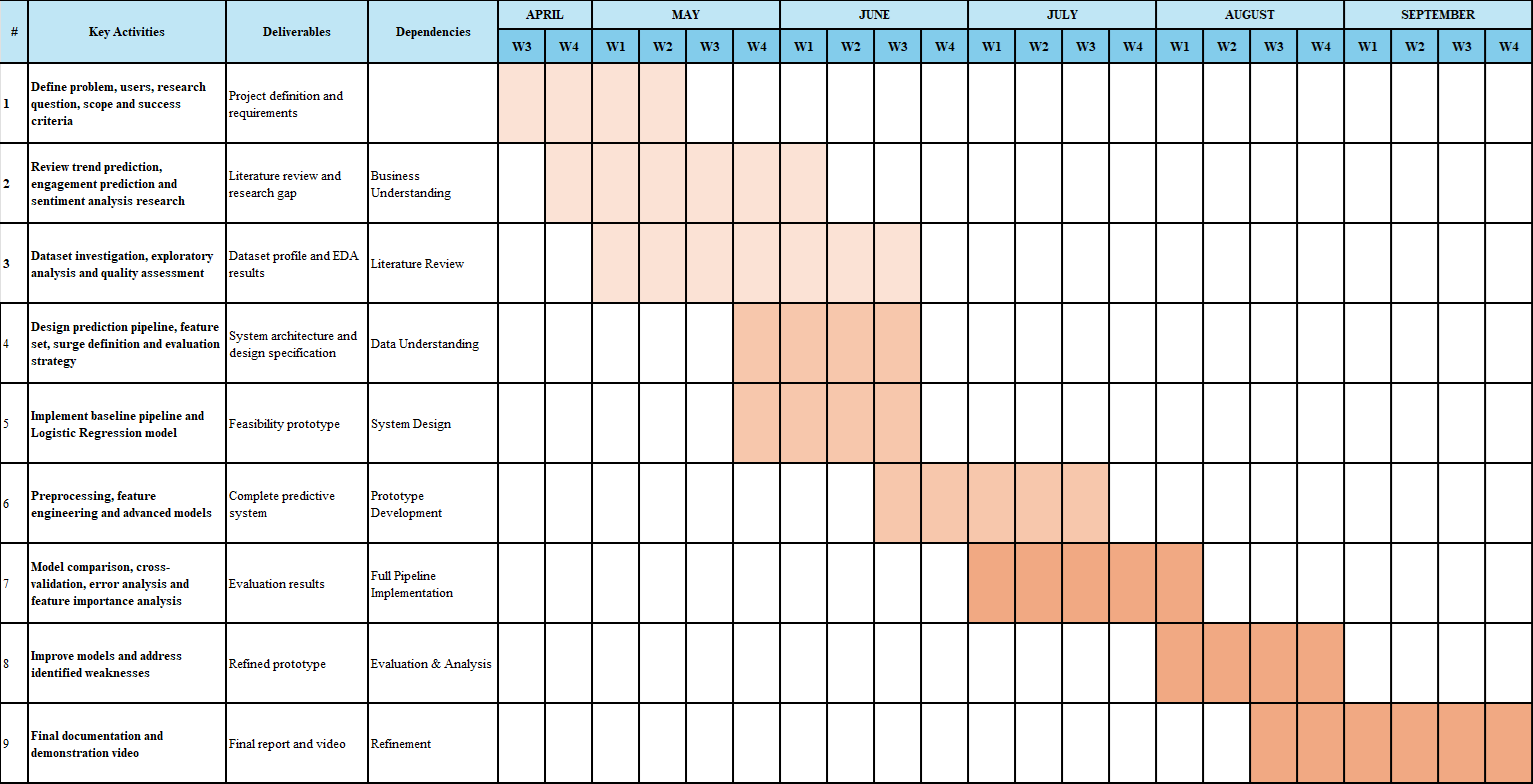
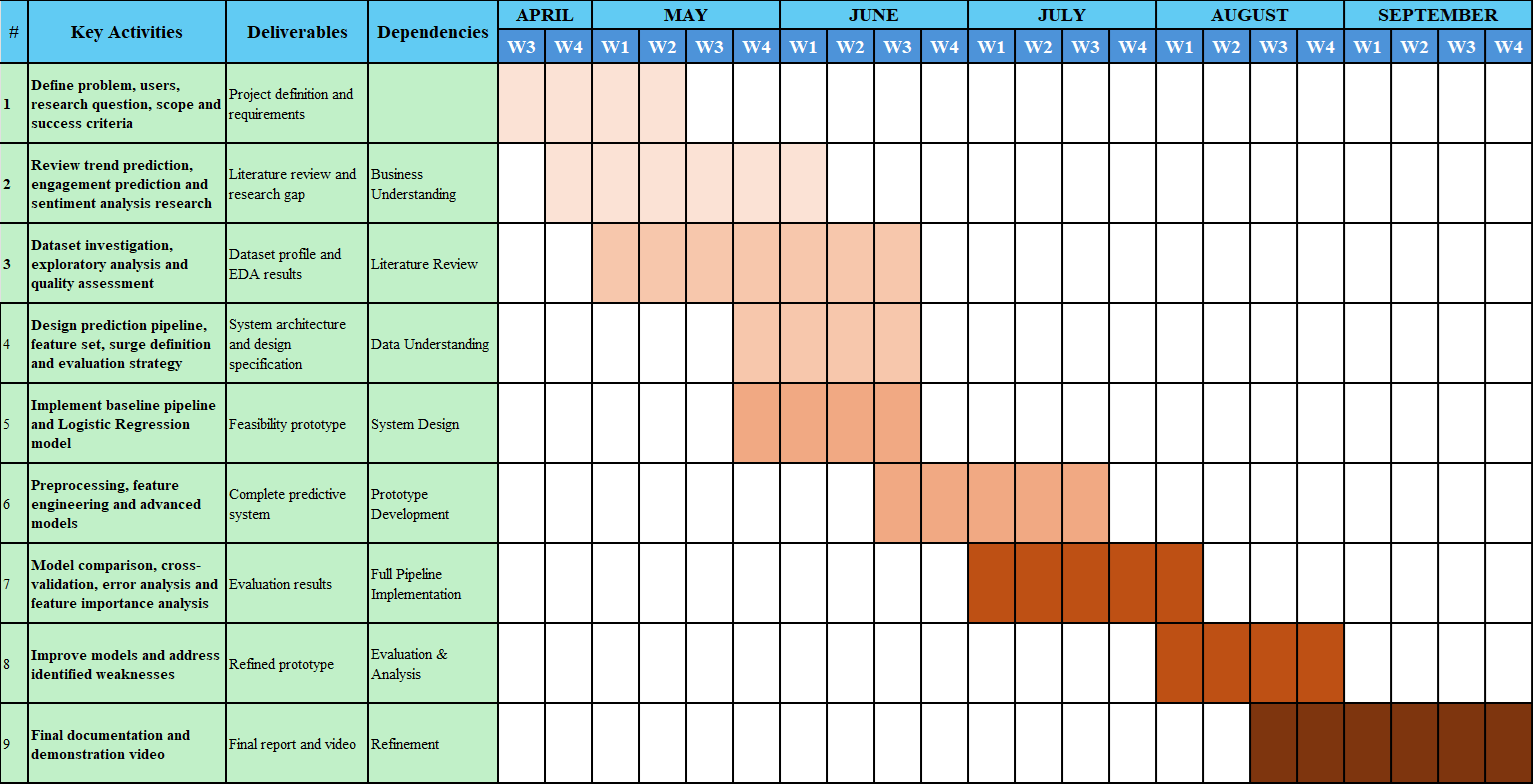
review: update final report evaluation section

diff --git a/reports/05-final/final-report-v0.0.2.md b/reports/05-final/final-report-v0.0.2.md
@@ -440,7 +440,7 @@ The prediction objective is a supervised binary classification task ($y \in \{0,
 
 : Three classifier families spanning the complexity spectrum. {#tbl:model-families}
 
-**Primary metric (AUC-ROC):** At the sub-1% to ~5% surge rates the target actually produces ([@tbl:dataset-characteristics], [@tbl:weight-sensitivity]), accuracy is uninformative, a naive "no surge" predictor scores 95–99%. AUC-ROC measures ranking quality across all thresholds. Precision, Recall, $F_1$, and PR-AUC are reported as secondary metrics at default and validation-optimised thresholds.
+**Primary metric (AUC-ROC):** At the sub-1% to ~5% surge rates the target actually produces ([@tbl:dataset-characteristics], [@tbl:weight-sensitivity]), accuracy is uninformative, a naive "no surge" predictor scores 95–99%. AUC-ROC measures ranking quality across all thresholds. Precision, Recall, and $F_1$ are reported as secondary metrics at default and validation-optimised thresholds.
 
 **Handling class imbalance:** SMOTE is unsuitable for temporal data because synthetic instances lack meaningful timestamps and risk local data leakage. Instead, imbalance is addressed via cost-sensitive learning: `class_weight='balanced'` for LR and RF, and `scale_pos_weight` (negative-to-positive ratio) for XGBoost.
 
@@ -711,10 +711,12 @@ After the remaining stages (labelling also drops records whose forward window is
 | After ticker extraction (exploded) | 80,212 | 577,872 |
 | Usable records (post-exclusion) | 24,827 | 457,072 |
 | Train / Test split | 21,549 / 3,278 | 388,149 / 68,923 |
+| Train surges | 667 | 5,934 |
 | Test surges | 31 | 668 |
+| Train imbalance ratio | 31:1 | 64:1 |
 | Test imbalance ratio | 105:1 | 102:1 |
 
-: Dataset characteristics. {#tbl:dataset-characteristics}
+: Dataset characteristics. Surge counts and imbalance ratios are at the primary threshold ($\tau = 1.5$, $w_1 = w_2 = 0.5$). {#tbl:dataset-characteristics}
 
 ## Feature Engineering (Implementation) {#sec:feature-implementation}
 
@@ -946,7 +948,7 @@ The configuration with the highest mean validation AUC across the three splits (
 
 So that every reported number and plot derives from a single re-runnable path rather than ad-hoc analysis, evaluation is implemented as a reusable set of functions (`evaluation.py`), figure generators (`evaluation_figures.py`), and an append-only run tracker (`experiment_log.py`).
 
-**Metric computation.** For each trained model, held-out predictions are scored for AUC-ROC (the primary metric), plus precision, recall, $F_1$, and PR-AUC at both the default 0.5 threshold and the validation-tuned threshold (fixed during training, [@sec:temporal-validation]). Uncertainty is quantified by 1,000 bootstrap resamples of the test set, yielding 95% confidence intervals for every metric, and pairwise model differences are tested with McNemar's test under a Bonferroni-corrected $\alpha$.
+**Metric computation.** For each trained model, held-out predictions are scored for AUC-ROC (the primary metric), plus precision, recall, and $F_1$ at both the default 0.5 threshold and the validation-tuned threshold (fixed during training, [@sec:temporal-validation]). Uncertainty is quantified by 1,000 bootstrap resamples of the test set, yielding 95% confidence intervals for every metric, and pairwise model differences are tested with McNemar's test under a Bonferroni-corrected $\alpha$.
 
 **Experiment orchestration.** A run is fully specified by a `PipelineConfig` (dataset, weights $w_1/w_2$, threshold $\tau$, seed). The CLI entry points ([@tbl:cli-entry-points]) execute a run end-to-end; each writes its resolved configuration, metrics, and environment to a timestamped directory and appends one line to a JSONL log recording the config, the Git commit SHA, and the output path. Because a run is reproducible from its config and seed, model comparisons, threshold sweeps ($\tau$), and sentiment-weight sweeps ($w_2$) are executed by re-running with different configs rather than by editing code, and the cross-dataset transfer experiment simply loads a model trained on one community and scores it on the other's test set.
 
@@ -1073,7 +1075,7 @@ On `WSB`, XGBoost achieved AUC-ROC 0.892 [0.881–0.902] and Random Forest 0.880
 | | RF | 0.753 [0.673–0.824] | 0.068 | 0.194 | 0.101 | Target |
 | | XGB | 0.734 [0.641–0.821] | 0.000 | 0.000 | 0.000 | Target |
 
-: Test-set performance at default classification threshold (0.5). 95% bootstrap CIs from 1,000 resamples. {#tbl:perf-default}
+: Test-set performance at default classification threshold (0.5). 95% bootstrap CIs from 1,000 resamples. Tier reflects AUC-ROC only ([@tbl:success-tiers]), which is why XGBoost on `r/pennystocks` is still "Target" (AUC 0.734) despite 0.000 precision, recall, and F1 at this threshold. {#tbl:perf-default}
 
 AUC scores are strong but precision is near zero everywhere at the default 0.5 threshold. With sub-1% surge rates, probability outputs cluster far below 0.5, models rank surges correctly but the threshold is too conservative. This is a calibration problem, not a discrimination failure. On pennystocks, RF and XGB confidence intervals overlap substantially; McNemar's test ([@sec:statistical-validation]) nonetheless confirms significant prediction differences.
 
@@ -1162,6 +1164,8 @@ Models were evaluated on the other community's test set without retraining ([@tb
 
 ### Sentiment Contribution (Phase 1 vs Phase 2) {#sec:sentiment-contribution}
 
+Does adding sentiment to the surge target actually help, or would volume alone do just as well? To find out, the same XGBoost model was trained on two target definitions: **Phase 1**, volume growth only ($w_2 = 0$), and **Phase 2**, the composite of volume and sentiment ($w_1 = w_2 = 0.5$). [@tbl:phase-comparison] compares them.
+
 | Dataset | Phase 1 (volume only) | Phase 2 (composite) | $\Delta$ AUC |
 |---------|-----------------------|--------------------:|------:|
 | WSB | 0.710 | 0.892 | +0.182 |
@@ -1169,7 +1173,7 @@ Models were evaluated on the other community's test set without retraining ([@tb
 
 : Volume-only ($w_{2}=0$) vs composite ($w_{1}=w_{2}=0.5$), XGBoost AUC-ROC. {#tbl:phase-comparison}
 
-Adjusting the target weight also alters the base surge rate (0.53% to 1.44% on `WSB`), so the gain reflects both richer signal and slightly higher class balance. The full weight sweep:
+Sentiment clearly helps, adding +0.182 AUC on `WSB` and +0.049 on `r/pennystocks`. One caveat: changing the weight also shifts the base surge rate (0.53% to 1.44% on `WSB`), so part of the gain could simply come from a slightly more balanced target rather than from richer signal. To separate the two effects, the full weight sweep varies $w_2$ from 0 to 1:
 
 | $w_{2}$ | $w_{1}$ | AUC-ROC | Surge Rate | Tier |
 |----|-----|---------|------------|------|
@@ -1181,7 +1185,7 @@ Adjusting the target weight also alters the base surge rate (0.53% to 1.44% on `
 
 : Weight sensitivity, XGBoost AUC-ROC on WSB ($\tau = 1.5$). {#tbl:weight-sensitivity}
 
-The +0.184 AUC jump between $w_2 = 0.25$ (0.708) and $w_2 = 0.50$ (0.892) is disproportionate to the 0.43pp surge-rate increase over the same step, providing strong evidence of genuine predictive structure from sentiment. The relationship is non-monotonic: pure sentiment ($w_2 = 1.0$, AUC 0.872) outperforms $w_2 = 0.75$ (0.861), indicating volume contributions are most effective at equal balance.
+The sweep confirms the gain is real, not just a balance artefact. Its $w_2 = 0$ row (0.710) is the Phase 1 volume-only result from [@tbl:phase-comparison]; the sharpest move, however, is higher up the sweep. Between $w_2 = 0.25$ (AUC 0.708) and $w_2 = 0.50$ (0.892), AUC leaps +0.184 while the surge rate rises only 0.43pp, far too small a balance change to explain the jump. Sentiment is carrying genuine predictive signal. The curve is also non-monotonic: pure sentiment ($w_2 = 1.0$, 0.872) beats the volume-heavy $w_2 = 0.75$ (0.861), so an equal volume-sentiment balance ($w_2 = 0.50$) works best.
 
 ## Critical Analysis
 
@@ -1189,17 +1193,17 @@ The +0.184 AUC jump between $w_2 = 0.25$ (0.708) and $w_2 = 0.50$ (0.892) is dis
 
 XGBoost leads on `WSB` (0.892 vs. RF's 0.880), whereas Random Forest leads on `r/pennystocks` (0.753 vs. XGBoost's 0.734). Three factors explain this inversion:
 
-First, XGBoost's sequential boosting requires sufficient positive examples to distinguish signal from noise. `WSB` provides 5,934 training surges versus 667 in pennystocks; with fewer positives, later boosting iterations fit noise, a risk bagging mitigates by averaging independent trees.
+First, XGBoost's sequential boosting requires sufficient positive examples to distinguish signal from noise. `WSB` provides 5,934 training surges versus 667 in pennystocks ([@tbl:dataset-characteristics]); with fewer positives, later boosting iterations fit noise, a risk bagging mitigates by averaging independent trees.
 
 Second, Random Forest distributes splits more evenly across features. On pennystocks, Gini importances span six features above 0.06 with none exceeding 0.21, offering robustness when individual signals are unreliable.
 
-Third, XGBoost's probability calibration degrades under extreme imbalance. At 31:1 training ratio in pennystocks (105:1 in test), its logistic output saturates near zero, yielding zero positive predictions at threshold 0.5. RF's vote-fraction probabilities produce less extreme skew.
+Third, XGBoost's probability calibration degrades under extreme imbalance. At 31:1 training ratio in pennystocks (105:1 in test, [@tbl:dataset-characteristics]), its logistic output saturates near zero, yielding zero positive predictions at threshold 0.5. RF's vote-fraction probabilities produce less extreme skew.
 
 On this evidence, below roughly 5,000 positive training instances Random Forest was the more robust choice than gradient boosting.
 
 ### The Sentiment Signal {#sec:sentiment-signal}
 
-As a standalone feature, `sentiment_score` achieves modest AUC (0.559–0.587), yet dominates permutation importance (+0.146 to +0.203). This discrepancy arises because permutation importance measures contribution *in context of other features*. Sentiment becomes highly discriminative when conditioned on activity rates: accelerating volume combined with elevated emotional tone is a stronger surge precursor than either signal alone.
+As a standalone feature, `sentiment_score` achieves only modest AUC (0.559 on `r/pennystocks`, 0.587 on `WSB`; from the single-feature baselines, [@sec:statistical-validation] and [@tbl:cross-community-features]), yet dominates permutation importance (+0.146 to +0.203). This discrepancy arises because permutation importance measures contribution *in context of other features*. Sentiment becomes highly discriminative when conditioned on activity rates: accelerating volume combined with elevated emotional tone is a stronger surge precursor than either signal alone.
 
 This also explains Phase 1 vs Phase 2 divergence. With sentiment excluded from the target ($w_2 = 0$), volume-only surges exhibit higher variance and prove harder to forecast. Incorporating sentiment ($w_2 \ge 0.50$) yields surges with more structured precursors. While part of the +0.182 AUC gain stems from altered task difficulty, its disproportionate magnitude evidences genuine predictive structure.
 
@@ -1219,7 +1223,14 @@ These patterns are systematic rather than random, and they point back to specifi
 
 The pennystocks-trained model (21,549 records) transfers upward to `WSB` at AUC 0.871, whereas the WSB-trained model (388,149 records) achieves only 0.684 downward. This contradicts the assumption that larger datasets yield better transferability.
 
-Distributional mismatch explains the asymmetry. On `WSB`, `word_count` alone achieves AUC 0.805, reflecting community culture where surges are preceded by lengthy "due diligence" posts. On pennystocks, `word_count` yields only 0.573. WSB-trained models heavily leverage this community-specific artefact, causing performance drops when transferred. Conversely, pennystocks-trained models cannot rely on a single dominant feature; they learn broader representations combining sentiment and activity metrics that generalise across domains.
+Distributional mismatch explains the asymmetry, and it shows up in how a single feature behaves across the two communities ([@tbl:cross-community-features]). On `WSB`, `word_count` alone achieves AUC 0.805, reflecting a community culture where surges are preceded by lengthy "due diligence" posts; on `r/pennystocks` the same feature manages only 0.573. WSB-trained models lean heavily on this community-specific artefact, so they lose ground when transferred. Conversely, pennystocks-trained models cannot rely on any single dominant feature; they learn broader representations combining sentiment and activity that generalise across domains.
+
+| Single feature (AUC-ROC) | WSB | pennystocks |
+|--------------------------|-----|-------------|
+| `word_count` | 0.805 | 0.573 |
+| `sentiment_score` | 0.587 | 0.559 |
+
+: Two single-feature AUCs contrasted across communities, drawn from the single-feature baselines ([@sec:statistical-validation]). `word_count` is strongly community-specific (dominant on `WSB`, weak on `r/pennystocks`), whereas `sentiment_score` is modest but stable, which is why the sparse-community model transfers better. {#tbl:cross-community-features}
 
 This suggests that, for cross-community use, training on the more signal-constrained community forces broader feature reliance and transfers better than training on the larger one; the practical implication for deployment is taken up in [@sec:proposed-improvements].
 
@@ -1232,25 +1243,25 @@ The best operating point (XGBoost, threshold 0.85 on `WSB`) is evaluated against
 | AUC-ROC | ≥ 0.80 | 0.892 | Yes |
 | Recall | ≥ 0.50 | 0.235 | No |
 | Precision | ≥ 0.10 | 0.217 | Yes |
-| Daily alert volume | 20–30 | ~10.5 flags/day* | Partial |
+| Daily alert volume | 20–30 | ~3.7 flags/day* | Below target |
 
 : Best model evaluated against operational acceptance criteria ([@sec:operational-criteria]). {#tbl:acceptance-eval}
 
-\* Computed from 722 total flags (157 TP + 565 FP) over the 68-day test period – 10.6 flags per day.
+\* With 722 total flags (157 TP + 565 FP) spread across the 197-day test partition (2021-06-18 to 2021-12-31), the daily average is ~3.7 flags.
 
-The system meets ranking quality and precision requirements but catches only 23.5% of surges rather than the targeted 50%. Lowering the threshold to achieve recall ≥ 0.50 (at default 0.50: recall = 0.819) produces ~584 flags/day, operationally unusable. No single threshold simultaneously satisfies all three criteria at 102:1 class imbalance.
+The system meets ranking quality and precision requirements but catches only 23.5% of surges rather than the targeted 50%. Lowering the threshold to achieve recall ≥ 0.50 (at default 0.50: recall = 0.819) produces ~65 flags/day (12,843 flags over 197 days), operationally unusable. No single threshold simultaneously satisfies all three criteria at 102:1 class imbalance.
 
 ![Classification threshold sensitivity for XGBoost on WSB. As the decision threshold varies, precision and recall trade off sharply. No single threshold simultaneously achieves recall ≥ 0.50 and precision ≥ 0.10, illustrating the fundamental constraint imposed by the 102:1 class imbalance.](../../output/figures/evaluation/20260905_A2/12_classification_threshold_sensitivity_xgboost.png){#fig:threshold-sensitivity}
 
-**Implications by user scenario.** *Compliance teams*: insufficient as standalone surveillance, but complementary to rule-based volume alerts. *Quantitative researchers*: well-suited, ~2 genuine surges surfaced daily among 10 flags. *Platform moderators*: rank-based deployment (top-$k$ tickers daily) avoids the threshold problem entirely.
+**Implications by user scenario.** *Compliance teams*: insufficient as standalone surveillance, but complementary to rule-based volume alerts. *Quantitative researchers*: well-suited, at ~0.8 genuine surges surfaced daily among ~3.7 flags (precision 0.217). *Platform moderators*: rank-based deployment (top-$k$ tickers daily) avoids the threshold problem entirely.
 
-**Why ranking matters more than binary decisions.** The model ranks surges effectively (AUC = 0.892) but struggles to produce calibrated binary predictions at any single threshold, a mathematical consequence of the base rate, not a model failure [@he2009imbalanced]. Saito and Rehmsmeier [@saito2015precisionrecall] demonstrated that under severe imbalance, precision-recall analysis reveals limitations that ROC curves mask. PR-AUC of approximately 0.14 (14× above random) confirms this: strong discrimination across the full score range, but false alarms dominate at any threshold permissive enough for reasonable recall.
+**Why ranking matters more than binary decisions.** The model ranks surges effectively (AUC = 0.892) but struggles to produce calibrated binary predictions at any single threshold, a mathematical consequence of the base rate, not a model failure [@he2009imbalanced]. Saito and Rehmsmeier [@saito2015precisionrecall] demonstrated that under severe imbalance, precision-recall analysis reveals limitations that ROC curves mask. The precision-recall trade-off here confirms this ([@fig:threshold-sensitivity]): the model discriminates well across the full score range, yet at the 0.97% base rate a precision of only 0.217 at the best operating point means false alarms dominate at any threshold permissive enough for reasonable recall.
 
 The operationally correct deployment is rank-based: sort tickers by predicted probability, review the top-$k$ daily, and accept that some surges fall outside the review window [@fawcett2006roc]. Full automation, which as [@sec:operational-criteria] noted would demand far higher precision and formal calibration, is not supported by these results ([@sec:proposed-improvements]).
 
 ### Temporal Stability and Distribution Shift {#sec:temporal-stability}
 
-The validation-test gap for Random Forest (val_F1 = 0.911 at tuned threshold vs test F1 = 0.210 at that same threshold) suggests temporal non-stationarity, where surge dynamics shifted as the post-GameStop wave subsided. The gap is even starker at the default threshold (test F1 = 0.145). Importantly, AUC remains high (0.880) on the test set, indicating that ranking ability transfers intact; the F1 collapse reflects threshold miscalibration under distribution shift rather than wholesale model failure. This distinction matters: overfitting would degrade both AUC and F1, whereas a shift in class balance or surge characteristics affects only the calibrated threshold. A deployed system would need periodic retraining or adaptive threshold selection. However, cross-dataset transfer at 0.871 suggests core patterns are stable enough to cross community boundaries; instability is concentrated in threshold calibration rather than underlying ranking.
+The validation-test gap for Random Forest (val_F1 = 0.911 at tuned threshold vs test F1 = 0.079 at that same threshold, [@tbl:perf-tuned]) suggests temporal non-stationarity, where surge dynamics shifted as the post-GameStop wave subsided. The gap persists at the default threshold (test F1 = 0.145, [@tbl:perf-default]). Importantly, AUC remains high (0.880) on the test set, indicating that ranking ability transfers intact; the F1 collapse reflects threshold miscalibration under distribution shift rather than wholesale model failure. This distinction matters: overfitting would degrade both AUC and F1, whereas a shift in class balance or surge characteristics affects only the calibrated threshold. A deployed system would need periodic retraining or adaptive threshold selection. However, cross-dataset transfer at 0.871 suggests core patterns are stable enough to cross community boundaries; instability is concentrated in threshold calibration rather than underlying ranking.
 
 ## Limitations and Proposed Improvements
 
